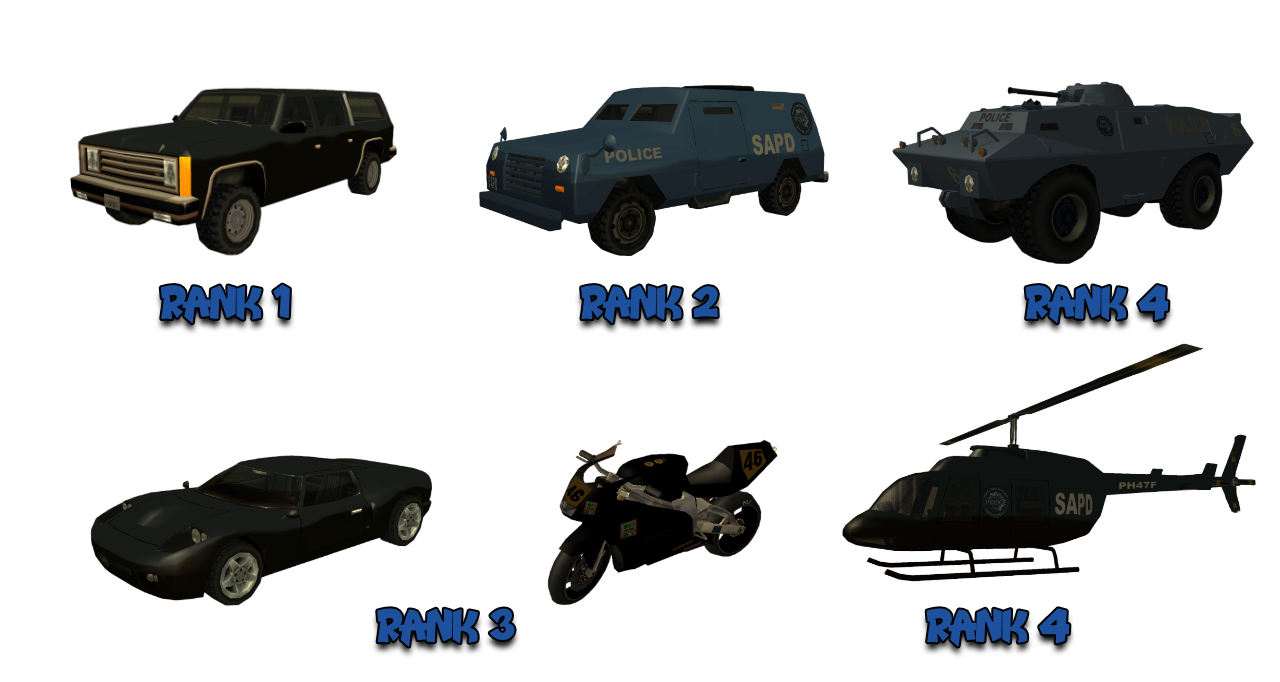
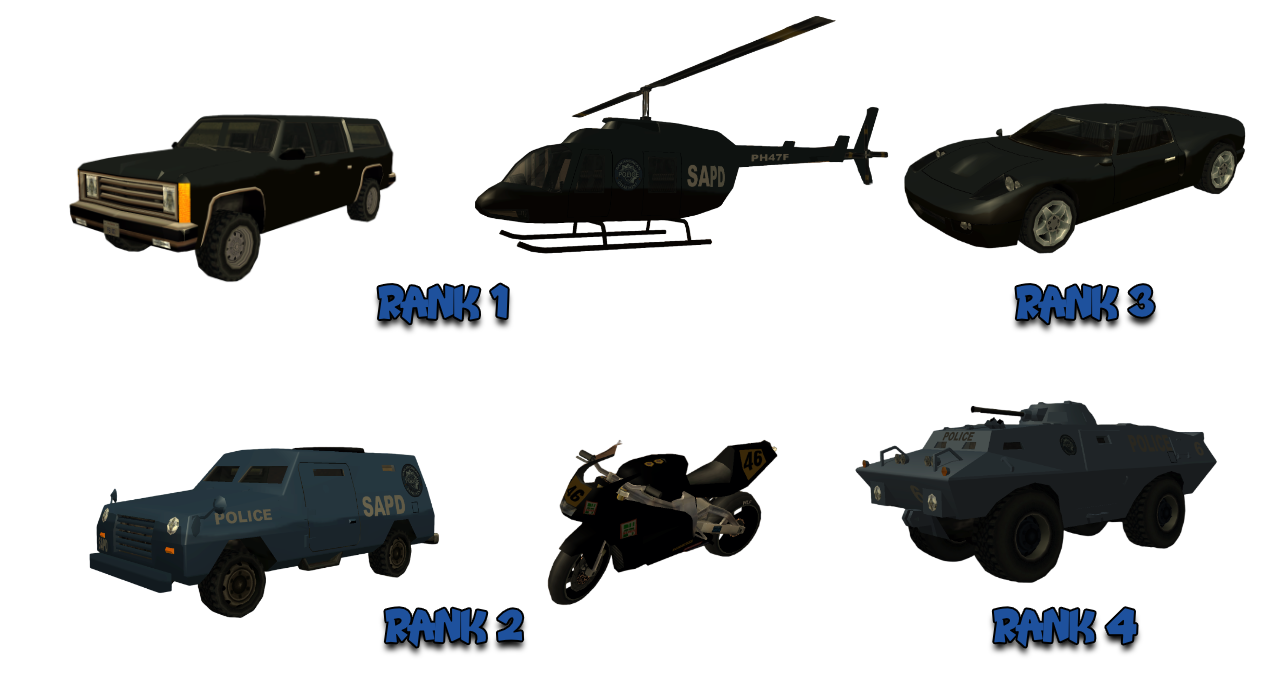
modifications FBI vehicle ranks

diff --git a/docs/factions/departments/fbi.md b/docs/factions/departments/fbi.md
@@ -48,11 +48,11 @@ Pe langa acest regulament, toti membrii au obligatia de a respecta inclusiv [Reg
 </figure>
 
 - 26 FBI Rancher - Rank 1.
-- 5 FBI Truck - Rank 4.
-- 3 NRG - Rank 3.
+- 1 Police Maverick - Rank 1.
+- 5 FBI Truck - Rank 2.
+- 3 NRG - Rank 2.
 - 7 Bullet - Rank 3.
 - 3 SWAT - Rank 4.
-- 1 Police Maverick - Rank 4.
 
 <span style="color:var(--pink);">3.1</span> Nu aveti voie sa folositi vehiculele de tip "<span style="color:var(--pink);">SWAT</span>" pentru a stropi jucatorii, pentru a ii tine la pamant. Cine nu respecta regula este sanctionat cu <span style="color:red;">Avertisment Verbal</span> sau <span style="color:red;">Faction Warn</span>, in functie de caz. In cazul protestelor sau jucatori care incurca traficul, aveti voie sa folositi apa pentru a ii calma.
 

diff --git a/docs/factions/departments/fbi.en.md b/docs/factions/departments/fbi.en.md
@@ -48,11 +48,11 @@ Besides these rules, all members are obligated to respect both the [Server Rules
 </figure>
 
 - 26 FBI Rancher - Rank 1.
-- 5 FBI Truck - Rank 4.
-- 3 NRG - Rank 3.
+- 1 Police Maverick - Rank 1.
+- 5 FBI Truck - Rank 2.
+- 3 NRG - Rank 2.
 - 7 Bullet - Rank 3.
 - 3 SWAT - Rank 4.
-- 1 Police Maverick - Rank 4.
 
 <span style="color:var(--pink);">3.1</span> You are not allowed to use "<span style="color:var(--pink);">SWAT</span>" vehicles to spray players or to keep them on the ground. Anyone who violates this rule is sanctioned with a <span style="color:red;">Verbal Warning</span> or a <span style="color:red;">Faction Warn</span>, depending on the case. In the case of protests or players disrupting traffic, you are allowed to use water to calm them down.
 
